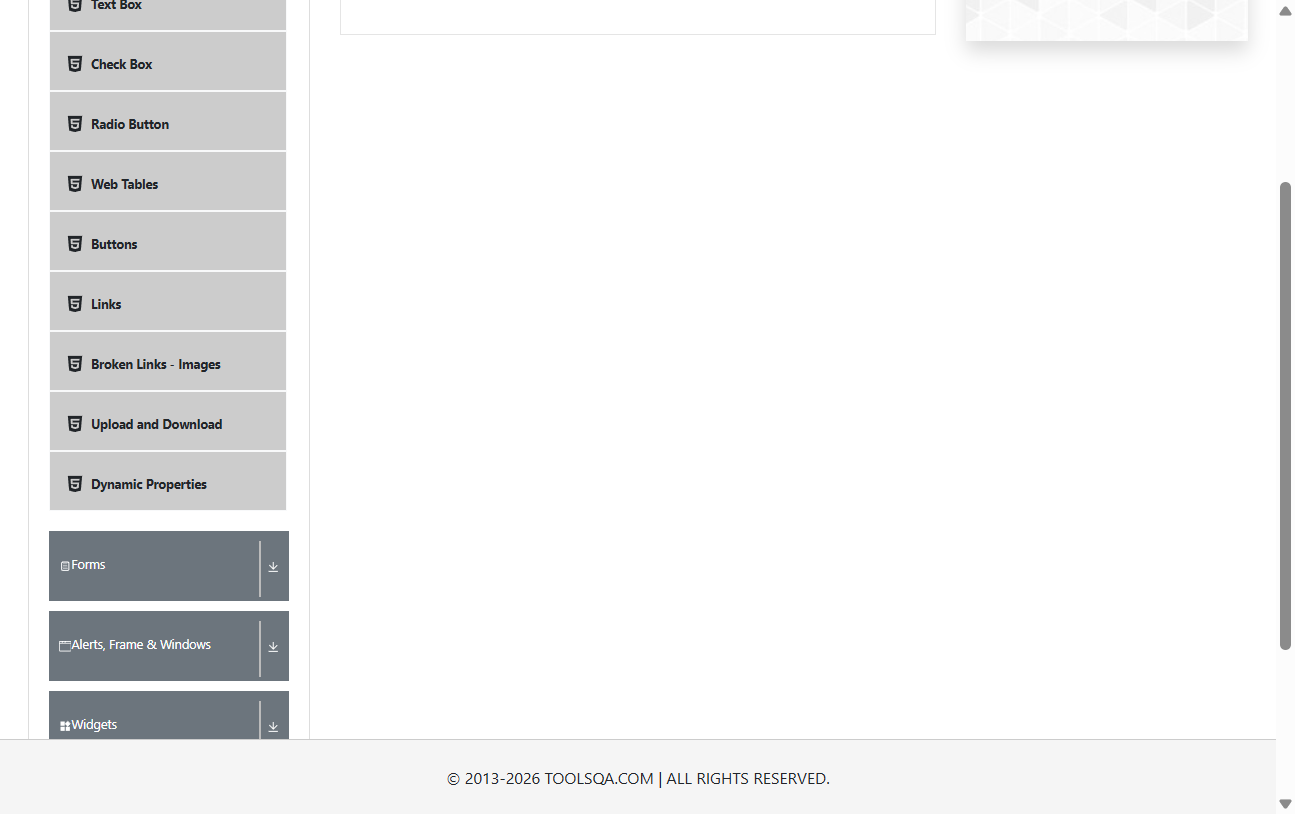
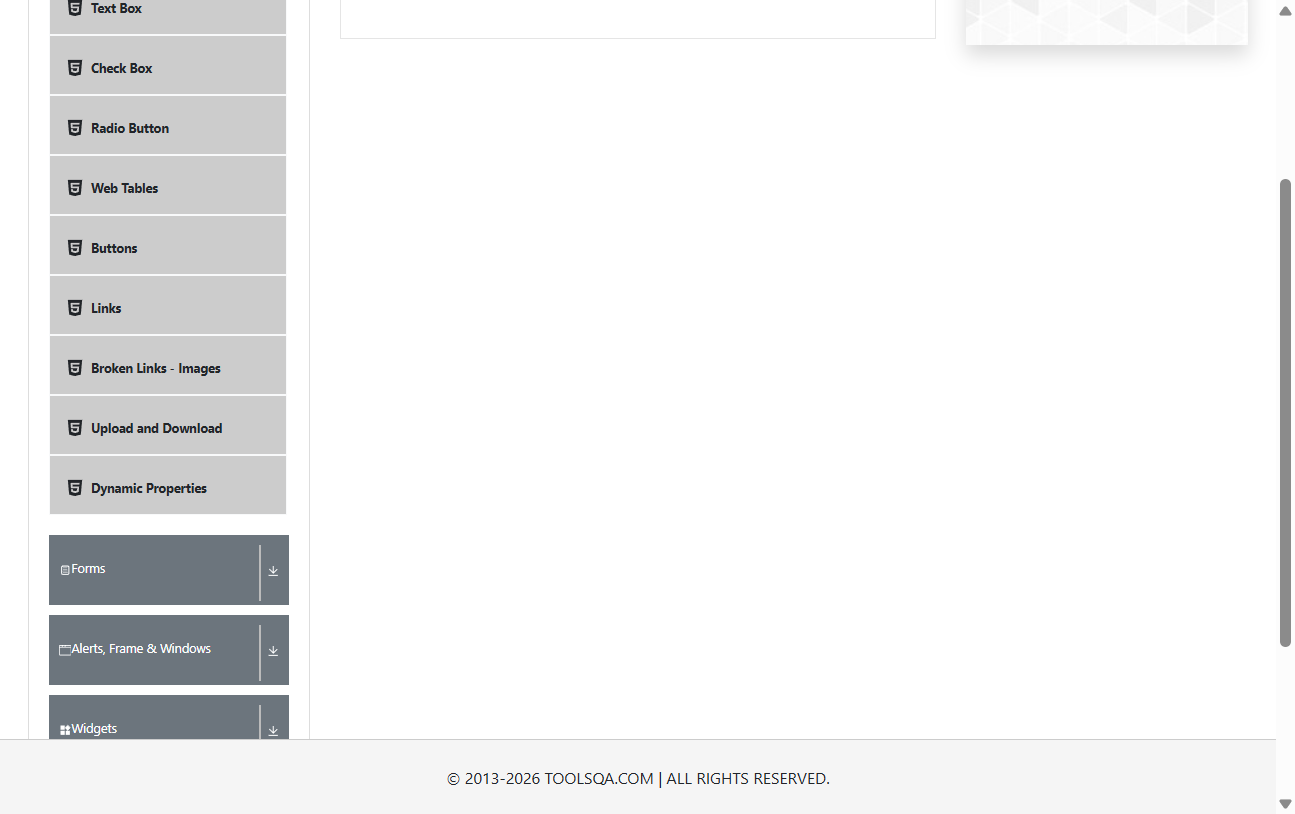
test_01

diff --git a/demo/src/test/java/com/spring/demo/pages/ElementPage.java b/demo/src/test/java/com/spring/demo/pages/ElementPage.java
@@ -53,6 +53,8 @@ public class ElementPage extends BasePage {
         scrollWindow();
         scrollWindowUp(Element_frame);
         Element_frame.click();
+        // Scroll to TextBox_Span to make it visible
+        scrollToElement(TextBox_Span);
         TextBox_Span.click();
         UserName.sendKeys("XYZ");
         Email.sendKeys("xyz@gmail.com");

diff --git a/demo/src/test/java/com/spring/demo/pages/BasePage.java b/demo/src/test/java/com/spring/demo/pages/BasePage.java
@@ -64,6 +64,8 @@ public abstract class BasePage {
         wait.until(ExpectedConditions.visibilityOf(element));
     }
 
-
-
+    public void scrollToElement(WebElement element){
+        js=(JavascriptExecutor)webDriver;
+        js.executeScript("arguments[0].scrollIntoView(true);", element);
+    }
 }
